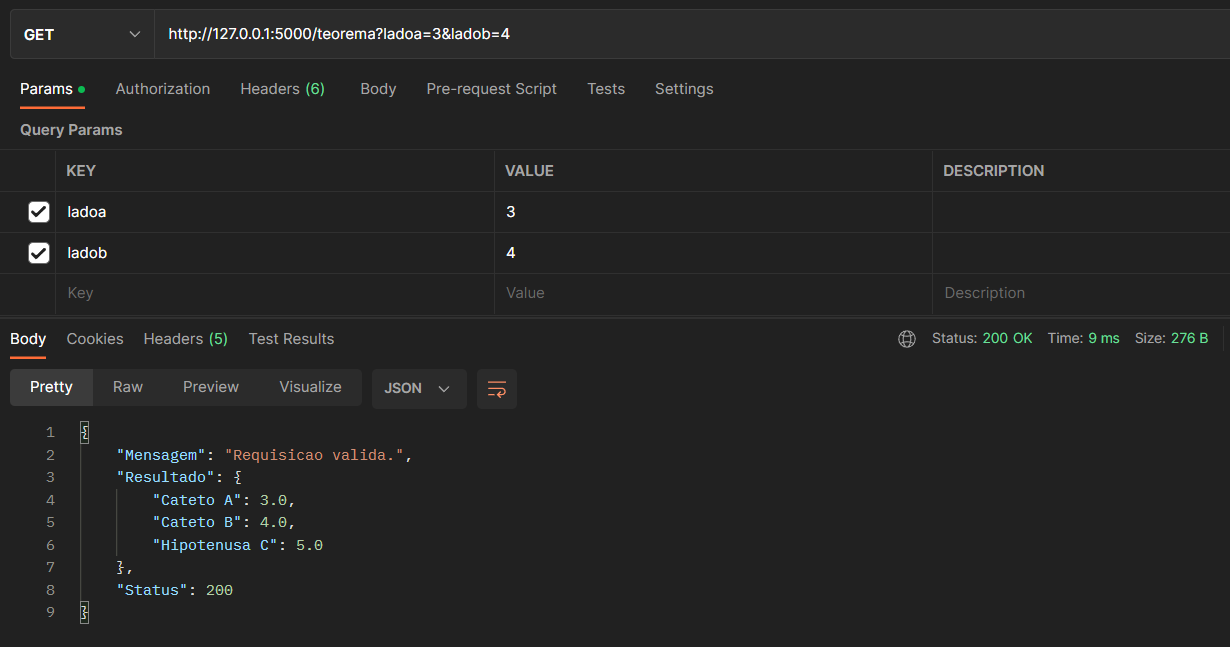
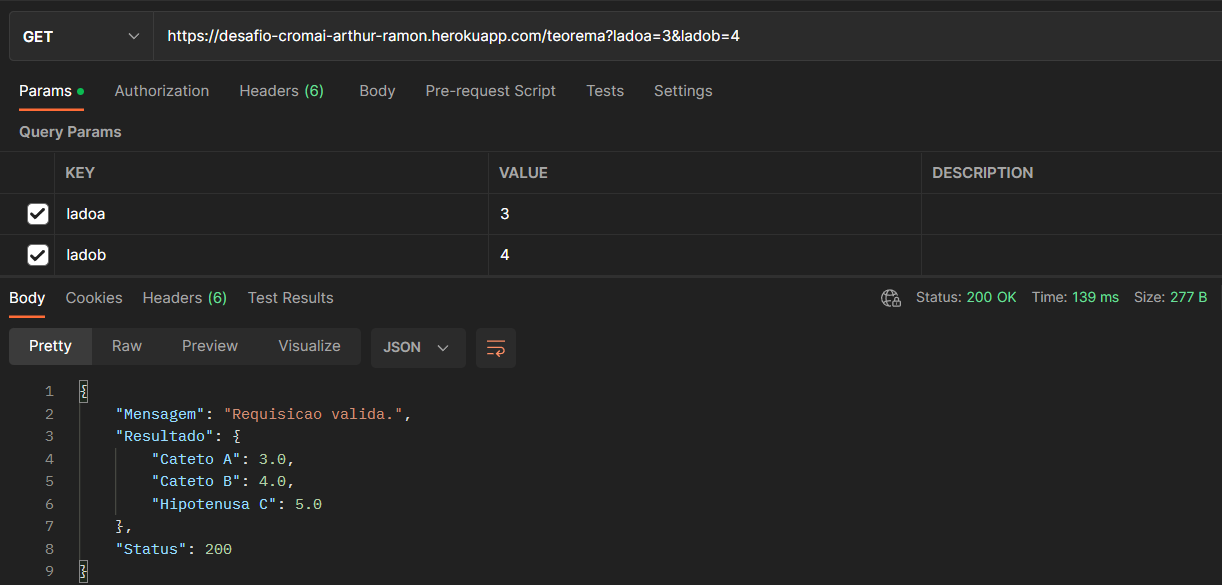
Alteração em textos e exclusão de arquivos

diff --git a/api/templates/api-documentation.html b/api/templates/api-documentation.html
@@ -42,17 +42,17 @@
             de Pitágoras. Para vê-la funcionando, basta seguir os modelos de requisição abaixo:</p>
 
         <p>Passando os valores para o cateto A e o cateto B, utilizando o método GET:
-            <b>http://127.0.0.1:5000/teorema?ladoa=3&ladob=4</b>
+            <a href="https://desafio-cromai-arthur-ramon.herokuapp.com/teorema?ladoa=3&ladob=4"><b>https://desafio-cromai-arthur-ramon.herokuapp.com/teorema?ladoa=3&ladob=4</b></a>
         </p>
         <img src="../static/requisicao-ladoa-ladob.png" alt="API imagem."></img>
 
         <p>Passando os valores para o cateto A e a hipotenusa C, utilizando o método GET:
-            <b>http://127.0.0.1:5000/teorema?ladoa=7&ladoc=10</b>
+            <a href="https://desafio-cromai-arthur-ramon.herokuapp.com/teorema?ladoa=7&ladoc=10"><b>https://desafio-cromai-arthur-ramon.herokuapp.com/teorema?ladoa=7&ladoc=10</b></a>
         </p>
         <img src="../static/requisicao-ladoa-ladoc.png" alt="API imagem."></img>
 
         <p>Passando os valores para o cateto B e a hipotenusa C, utilizando o método GET:
-            <b>http://127.0.0.1:5000/teorema?ladoc=8&ladob=2</b>
+            <a href="https://desafio-cromai-arthur-ramon.herokuapp.com/teorema?ladoc=8&ladob=2"><b>https://desafio-cromai-arthur-ramon.herokuapp.com/teorema?ladoc=8&ladob=2</b></a>
         </p>
         <img src="../static/requisicao-ladob-ladoc.png" alt="API imagem."></img>
 
@@ -86,12 +86,12 @@
 
         <br />
 
-        <p>Caso você não passe os parâmetros. Exemplo: <b>http://127.0.0.1:5000/teorema</b></p>
+        <p>Caso você não passe os parâmetros. Exemplo: <a href="https://desafio-cromai-arthur-ramon.herokuapp.com/teorema"><b>https://desafio-cromai-arthur-ramon.herokuapp.com/teorema</b></a></p>
         <img src="../static/requisicao-invalida.png" alt="Imagem." id="triangulo"></img>
 
         <br />
 
-        <p>Caso você passe valores de tipo não numérico para os parâmetros. Exemplo: <b>http://127.0.0.1:5000/teorema?ladoa=oito&ladob=tres</b></p>
+        <p>Caso você passe valores de tipo não numérico para os parâmetros. Exemplo: <a href="https://desafio-cromai-arthur-ramon.herokuapp.com/teorema?ladoc=oito&ladoa=tres"><b>https://desafio-cromai-arthur-ramon.herokuapp.com/teorema?ladoc=oito&ladoa=tres</b></a></p>
         <img src="../static/requisicao-invalida-parametro-string.png" alt="Imagem." id="triangulo"></img>
     </div>
 </body>

diff --git a/api/templates/style.css b/api/templates/style.css
@@ -47,6 +47,10 @@ a {
     margin-right: 2%;
 }
 
+.conteudo a{
+    color: black;
+}
+
 i {
     font-size: 30px;
     margin-top: 80%;
